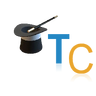
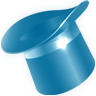
Some "new-look" refreshments.

diff --git a/README.md b/README.md
@@ -1,2 +1,6 @@
 # TrickyCoin
 TrickyCoin reborn
+
+26 Aug 2015	All design is absolutely temporary. Added just to "refresh" a wallet.
+		No significant changes was made except fixing DNS-Seed nodes.
+		Everything else just a little bit polishing.
